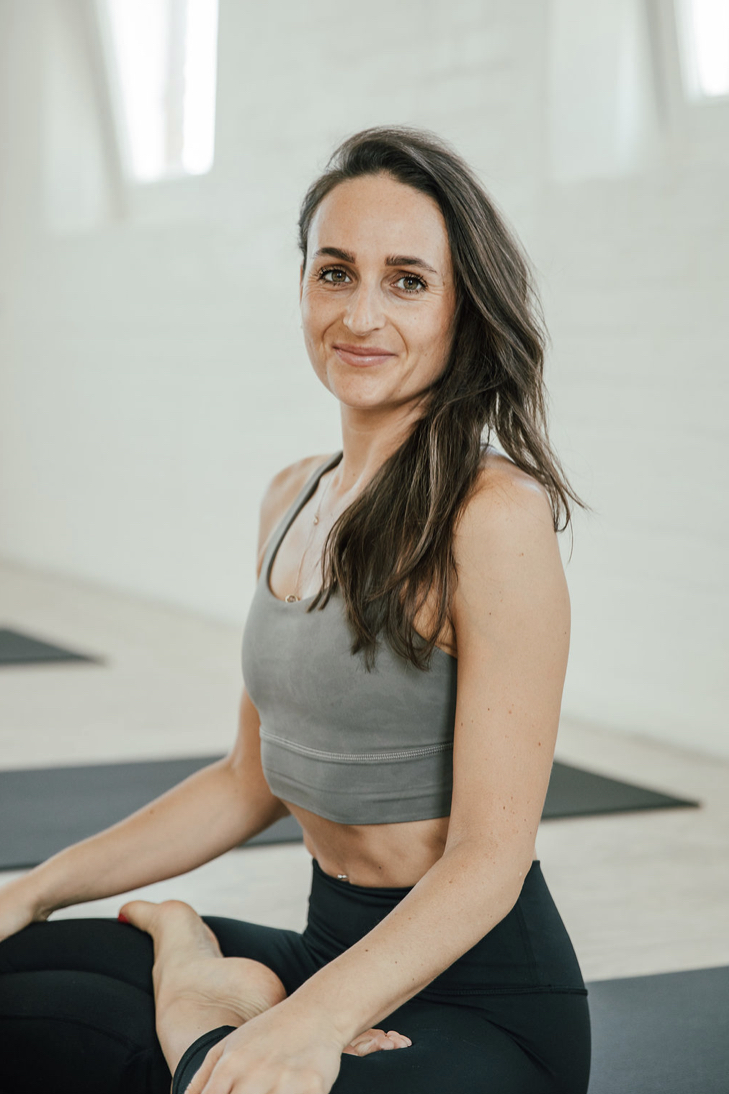
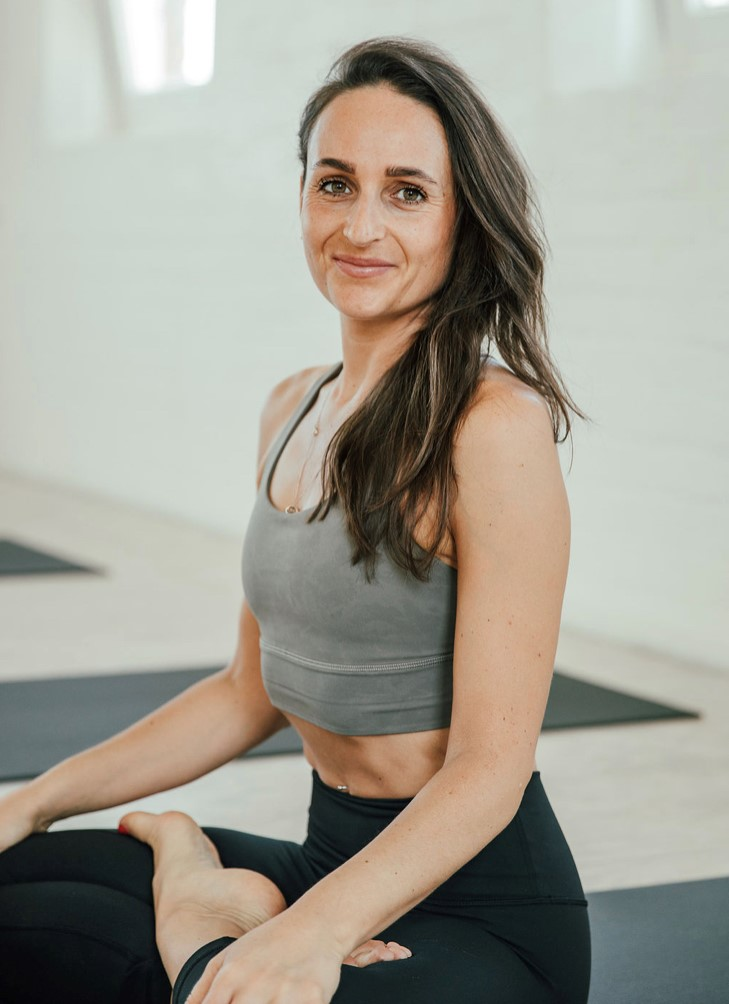
hayley image and media queries

diff --git a/src/Home.js b/src/Home.js
@@ -3,10 +3,12 @@ import { Link } from 'react-router-dom';
 import { SocialIcon } from 'react-social-icons';
 import { Helmet } from 'react-helmet';
 import * as FaIcons from "react-icons/fa";
-import logo from './images/logo.png';
-import logo2 from './images/logo2.png';
+// import logo from './images/logo.png';
+// import logo2 from './images/logo2.png';
 import heroImage from './images/homepage/hero-image.JPG';
 import heroImageCropped from './images/homepage/hero-image-cropped.jpg';
+import hayleyImage from './images/homepage/hayley.jpg';
+import hayleyImageCropped from './images/homepage/hayleyCropped.jpg';
 import yogaImage from './images/homepage/yoga.JPG';
 import danceImage from './images/homepage/dance.jpg';
 import './scss/main.scss';
@@ -39,10 +41,12 @@ function Home() {
           <div className='navbar__main-menu'>
             <div className='navbar__sub-main-menu'>
               <div>
-                <a className="navbar__logo" href="/">
-                  <img src={logo} alt="Hayley's Logo" />
-                </a>
-                <p className='navbar__logo-text'>Hayley Dance & Yoga</p>
+                {/* <a className="navbar__logo" href="/">
+                  <img src={logo} alt=
+                  "Hayley's Logo" />
+                </a> */}
+                <p className='navbar__logo-text'><FaIcons.FaAtlassian className='logo' />
+                  Hayley Dance & Yoga</p>
               </div>
               <div>
                 <button className='navbar__button'>
@@ -74,8 +78,8 @@ function Home() {
       <section>
         <div className="container-fluid px-0">
           <div className="row mx-0">
-            <div className="about">
-              <div className="about__text">
+            <div className="about col-lg-8 px-0">
+              <div className="about__text ">
                 <h1 className="about__heading">About</h1>
                 <hr className="about__line" />
                 <p className="about__para">
@@ -108,6 +112,13 @@ function Home() {
                 </p>
               </div>
             </div>
+            <div className="about__image col-lg-4 px-0">
+              <picture >
+                <source media="(max-width:450px)" srcSet={hayleyImageCropped} />
+                <source srcSet={hayleyImage} />
+                <img className="about__image" src={hayleyImage} alt="A person doing a yoga pose, legs crossed on the floor and holding hands together in prayer position front of head" />
+              </picture>
+            </div>
           </div>
         </div>
       </section>
@@ -123,7 +134,7 @@ function Home() {
                 <source srcSet={yogaImage} />
                 <img className="offerings__image" src={yogaImage} alt="A person doing a yoga pose, legs crossed on the floor and holding hands together in prayer position front of head" />
               </picture>
-              <h2>Yoga</h2>
+              <h2 className="offerings__sec-headings">Yoga</h2>
               <p className="offerings__grid-para">
                 I offer yoga classes to all ages, levels and abilities. Range of
                 styles and practices. Classes can be tailored and blended as
@@ -138,7 +149,7 @@ function Home() {
                 <source srcSet={danceImage} />
                 <img className="offerings__image" src={danceImage} alt="Top half of a person, of their back, with hands together in prayer but arms are straight up to towards the sky" />
               </picture>
-              <h2>Dance</h2>
+              <h2 className="offerings__sec-headings">Dance</h2>
               <p className="offerings__grid-para">
                 I offer dance classes, open to all ages and abilities. No prior
                 dance experience needed or partner required. Classes can be
@@ -166,9 +177,10 @@ function Home() {
             <div className="footer">
               <div className="footer__text">
                 <div className="footer__logo" >
-                  <a href="/">
-                    <img className="footer__logo-image" src={logo2} alt="Hayley's Logo" />
-                  </a>
+                  {/* <a href="/">
+                    <img src={logo2} alt="Hayley's Logo" />
+                  </a> */}
+                  <FaIcons.FaAtlassian className="logo-footer" />
                 </div>
                 <h1 className="footer__heading">Connect</h1>
                 <div className="footer__line-div" >
@@ -180,14 +192,20 @@ function Home() {
                   <SocialIcon className="footer__socials-button" url="https://www.instagram.com/threecrownshotel/?hl=en" network="linkedin" bgColor="#403F48" fgColor="#ebe5db" style={{ height: 65, width: 65 }} />
                   <SocialIcon className="footer__socials-button" url="https://www.instagram.com/hayleydanceandyoga/?hl=en" network="instagram" bgColor="#403F48" fgColor="#ebe5db" color="currentColor" style={{ height: 65, width: 65 }} />
                 </div>
-                <p className="footer__credit">Website design and engineering by <a href="https://www.linkedin.com/in/racheluberti/">Rachel Uberti</a>
+                <div class="footer__links">
+                  <a href="index.html"><button class="footer__link-item">Homepage</button></a>
+                  <a href="#about"><button class="footer__link-item">About</button></a>
+                  <a href="#offeringsSection"><button class="footer__link-item">Offerings</button></a>
+                  <a href="#enquiry"><button class="footer__link-item">Connect</button></a>
+                </div>
+                <p className="footer__credit">Website design and engineering by <a className="footer__credit-link" href="https://www.linkedin.com/in/racheluberti/">Rachel Uberti</a>
                 </p>
               </div>
             </div>
           </div>
         </div>
-      </footer>
-    </div>
+      </footer >
+    </div >
   );
 }
 

diff --git a/src/scss/components/_footer.scss b/src/scss/components/_footer.scss
@@ -72,16 +72,32 @@
 
     @media screen and (max-width: 450px) {
       margin: 12px;
-
-
     }
+  }
+
+  &__link-item {
+    @include font-raleway;
+    font-size: 16px;
+    border: none;
+    background: none;
+    color: $darkGreen;
+    margin: 0px 15px;
+
+    @media only screen and (max-width: 450px) {
+      margin: 0px 6px;
+      font-size: 14px;
+  }
+  }
+
+  &__link-item:hover, &__link-item:active {
+    color: $beige;
   }
 
    &__credit {
     @include font-raleway;
     font-size: 12px;
     color: rgb(186, 103, 31);
-    padding-top: 20px;
+    padding-top: 40px;
 
     @media screen and (max-width: 450px) {
       font-size: 9px;
@@ -91,16 +107,34 @@
     }
   }
 
-  a:link,
-  a:visited {
-    text-decoration: none;
+
+  &__credit-link:visited,  &__credit-link:link {
+  text-decoration: none;
+  color: rgb(186, 103, 31);
+  }
+  &__credit-link:hover, &__credit-link:active {
+    text-decoration: underline;
     color: rgb(186, 103, 31);
   }
+  // a:link,
+  // a:visited {
+  //   text-decoration: none;
+  //   color: rgb(186, 103, 31);
+  // }
 
-  a:hover,
-  a:active {
-    text-decoration: none;
-    color: $olive;
-  }
+  // a:hover,
+  // a:active {
+  //   text-decoration: none;
+  //   color: $olive;
+  // }
 }
 
+.logo-footer {
+  color: $beige;
+  width: 50px; 
+  height: 50px;
+
+  @media only screen and (max-width: 450px) {
+      height: 75%;
+  }
+}

diff --git a/src/scss/components/_offerings.scss b/src/scss/components/_offerings.scss
@@ -46,6 +46,14 @@
         }
     }
 
+    &__sec-headings {
+        @include font-satisfy-heading;
+
+        @media only screen and (max-width: 450px) {
+            font-size: 20px;
+        }
+    }
+
     &__grid-item {
         text-align: center;
     }
@@ -55,7 +63,7 @@
         padding: 15px 0px;
 
         @media only screen and (max-width: 450px) {
-            font-size: 18px;
+            font-size: 16px;
             line-height: 24px;
             padding: 0px;
         }
@@ -78,6 +86,7 @@
     }
 
     &__message {
+        @include font-raleway;
         display: flex;
         justify-content: center;
         align-items: center;
@@ -86,6 +95,8 @@
 
         @media only screen and (max-width: 450px) {
             margin-bottom: 50px;
+            font-size: 16px;
+
         }
     }
 

diff --git a/src/scss/components/_navbar.scss b/src/scss/components/_navbar.scss
@@ -40,19 +40,14 @@
     }
   }
 
-  &__logo {
-    display: flex;
-    justify-content: center;
-
-    @media only screen and (max-width: 450px) {
-        height: 55%;
-    }
-  }
-
   &__logo-text {
     @include font-raleway;
-    font-size: 18px;
+    font-size: 14px;
     margin: 0px;
+
+    @media only screen and (max-width: 450px) {
+      display: none;
+    }
   }
 
   &__button {
@@ -68,5 +63,17 @@
 
   &__button:hover {
     color: $olive;
+  }
+}
+
+.logo {
+  color: $grey;
+  width: 50px; 
+  height: 50px;
+  margin-left: 15px;
+
+  @media only screen and (max-width: 450px) {
+      height: 75%;
+      margin-left: 0px;
   }
 }

diff --git a/src/scss/components/_about.scss b/src/scss/components/_about.scss
@@ -8,13 +8,14 @@
   display: flex;
   align-items: center;
   justify-content: center;
+  // padding: 0px !important;
 
   &__text {
-    max-width: 85%;
+    max-width: 80%;
     padding: 3em;
-    margin: 60px 0px;
+    margin: 40px 0px;
 
-    @media screen and (max-width: 560px) {
+    @media screen and (max-width: 450px) {
       max-width: 89%;
       padding: 1em;
     }
@@ -59,5 +60,9 @@
     background-color: $beige;
     border: none;
     color: $olive;
+  }
+
+  &__image {
+    max-width: 100%;
   }
 }

diff --git a/src/scss/abstracts/_fonts.scss b/src/scss/abstracts/_fonts.scss
@@ -35,7 +35,7 @@ src: url('Raleway-Variable.ttf') format('truetype');
   font-family: ('Satisfy', 'cursive');
   font-weight: normal;
   font-style: normal;
-  font-size: 20px;
+  font-size: 22px;
   line-height: 34px;
   color: #403F48;
   align-items: center;
